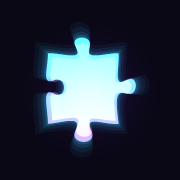
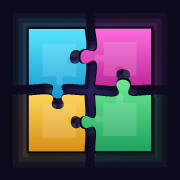
Nytt appikon, og hint om hvordan man far hele skjermen
Ikonet var en enkelt neonbla brikke, fra den gang appen bare hadde
neonmotiver. Na er det fire ekte puslespillbrikker i cyan, magenta, gul og
gronn - samme geometri som spillet bruker, bare rastrert i Node. Fire
biter sier "puslespill" tydeligere enn en, og passer en app som ledes av
fargerike barnemotiver. SVG-versjonen genereres fra samme geometri, sa
ikonene ser like ut overalt.

Om full skjerm: ingen nettside kan skjule Safaris grensesnitt - iOS gir
ikke lov. Det som virker er Del-knappen og "Legg til pa Hjem-skjerm", og
da starter appen i standalone uten nettleser rundt. Alt var allerede satt
opp for det; det som manglet var a si det.

- Startskjermen viser na et hint om dette, men bare nar appen faktisk
  kjorer i en nettleser. Starter den fra hjemskjermen, sier den ingenting.
- Hintet kan lukkes og huskes.
- display_override lagt til i manifestet.

diff --git a/js/main.js b/js/main.js
@@ -918,6 +918,38 @@ function merkStartvalg() {
   }
 }
 
+/**
+ * Hintet om full skjerm.
+ *
+ * iOS lar ingen nettside skjule Safari-grensesnittet. Det eneste som virker
+ * er «Legg til på Hjem-skjerm» - da starter appen i standalone og nettleseren
+ * forsvinner helt. Derfor sier vi det, men bare til den som trenger det.
+ */
+function erEgenApp() {
+  return window.matchMedia('(display-mode: standalone)').matches ||
+         window.matchMedia('(display-mode: fullscreen)').matches ||
+         window.navigator.standalone === true;
+}
+
+function oppdaterHeltskjermHint() {
+  let avvist = false;
+  try {
+    avvist = localStorage.getItem('puslespill-hint-skjult') === '1';
+  } catch {
+    // Blokkert lagring. Da viser vi hintet; det er bare en liten plage.
+  }
+  $('#heltskjerm-hint').hidden = erEgenApp() || avvist;
+}
+
+$('#heltskjerm-lukk').addEventListener('click', () => {
+  $('#heltskjerm-hint').hidden = true;
+  try {
+    localStorage.setItem('puslespill-hint-skjult', '1');
+  } catch {
+    /* ikke viktig nok til a bry seg */
+  }
+});
+
 function visStart() {
   if (!startKlar) {
     byggStartantall();
@@ -927,6 +959,7 @@ function visStart() {
     merkStartvalg();
   }
   oppdaterFortsett();
+  oppdaterHeltskjermHint();
   $('#start').hidden = false;
   settMeny(false);
 }

diff --git a/css/style.css b/css/style.css
@@ -911,3 +911,40 @@ input[type="range"] {
   .antallknapp b { font-size: 20px; }
   .startknapp { margin: 18px 0 10px; min-height: 60px; font-size: 20px; }
 }
+
+/* --- Hint om full skjerm ---------------------------------------------------
+ * iOS gir ingen nettside lov til å skjule Safari-grensesnittet. Det eneste
+ * som virker er «Legg til på Hjem-skjerm», så da må vi si det.
+ */
+.hint-kort {
+  position: relative;
+  margin: 0 0 16px;
+  padding: 14px 16px;
+  border-radius: 14px;
+  background: rgba(34, 224, 255, 0.07);
+  border: 1px solid rgba(34, 224, 255, 0.28);
+}
+
+.hint-kort[hidden] { display: none; }
+
+.hint-kort b {
+  display: block;
+  margin-bottom: 4px;
+  font-size: 15px;
+  color: var(--neon);
+}
+
+.hint-kort p {
+  margin: 0 0 10px;
+  font-size: 13.5px;
+  line-height: 1.5;
+  color: var(--tekst);
+}
+
+.hint-kort strong { color: #fff; }
+
+.hint-kort button {
+  min-height: 38px;
+  padding: 0 16px;
+  font-size: 14px;
+}

diff --git a/index.html b/index.html
@@ -44,6 +44,14 @@
   <div class="start-innhold">
     <h1 class="start-tittel">Puslespill</h1>
 
+    <div id="heltskjerm-hint" class="hint-kort" hidden>
+      <b>Vil du ha hele skjermen?</b>
+      <p>Trykk <strong>Del</strong>-knappen i Safari og velg
+         <strong>«Legg til på Hjem-skjerm»</strong>. Da starter puslespillet
+         som en egen app, uten nettleseren rundt – og brettet blir større.</p>
+      <button id="heltskjerm-lukk">Skjønner</button>
+    </div>
+
     <button id="fortsett" class="fortsettknapp" hidden>
       <b>Fortsett der du slapp</b>
       <span id="fortsett-tekst"></span>

diff --git a/sw.js b/sw.js
@@ -15,7 +15,7 @@
 // serveren. Kostnaden er en 304, og gevinsten er at filene alltid følger
 // hverandre.
 
-const CACHE = 'puslespill-v12';
+const CACHE = 'puslespill-v13';
 const NETT_FRIST_MS = 2500;
 
 const SKALL = [

diff --git a/README.md b/README.md
@@ -7,6 +7,20 @@ Motivene genereres i appen, eller du bruker dine egne bilder.
 brikkene lar seg finne, du kan bruke dine egne bilder, vanskelighetsgraden
 går fra barnehage til beinhard, og alt overlever at appen lukkes.
 
+## Full skjerm på iPad
+
+Åpner du lenken i Safari, blir Safaris eget grensesnitt liggende rundt
+brettet. Ingen nettside kan skjule det – iOS gir ikke lov.
+
+Det som virker er **Del-knappen → «Legg til på Hjem-skjerm»**. Da starter
+appen i standalone, Safari forsvinner helt, og brettet får hele skjermen.
+Manifestet og `apple-mobile-web-app-capable` er satt opp for nettopp det, og
+`viewport-fit=cover` med safe-area-innrykk gjør at innholdet går helt ut i
+kantene uten å havne under statuslinja.
+
+Appen viser et lite hint om dette på startskjermen, men bare når den faktisk
+kjører i en nettleser. Starter den fra hjemskjermen, sier den ingenting.
+
 ## Kjøre lokalt
 
 ```bash
